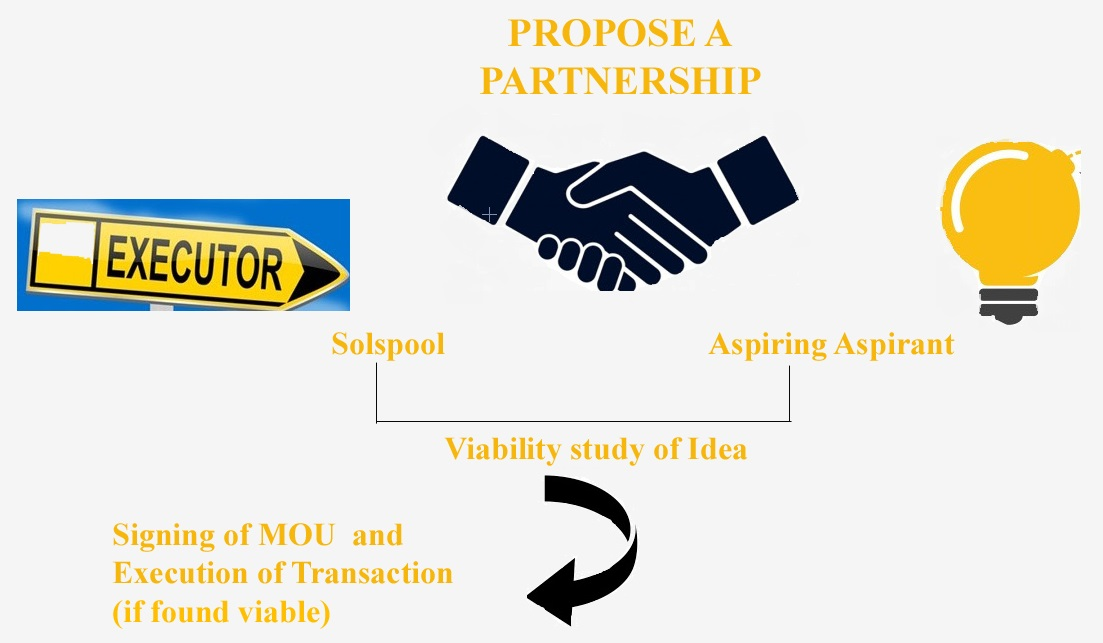
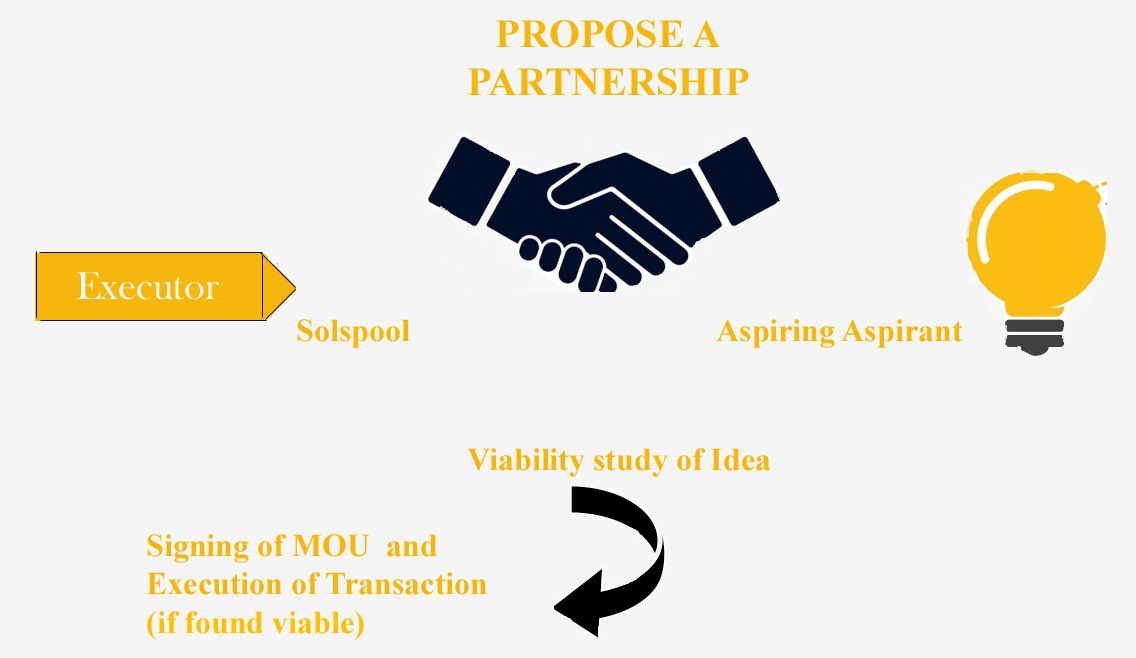
service page and workflow done

diff --git a/public/css/style.css b/public/css/style.css
@@ -561,7 +561,8 @@ a:focus, a:hover, .btn:focus, .btn:hover, button:focus, button:hover {
   text-align: center;
   position: relative;
   z-index: 1;
-  padding-bottom: 70px;
+  padding-bottom: 0px;
+  
 }
 .banner_area:after {
   content: "";
@@ -578,7 +579,7 @@ a:focus, a:hover, .btn:focus, .btn:hover, button:focus, button:hover {
   color: #fff;
   font: 400 40px "Oswald", sans-serif;
   text-transform: uppercase;
-  padding-top: 85px;
+  padding-top: 10px;
 }
 .banner_area .breadcrumb {
   background-color: transparent;

diff --git a/resources/views/services.blade.php b/resources/views/services.blade.php
@@ -10,50 +10,158 @@
         </ol>
         <style>
         ul li {
-             color: #3c3c3c;
-            color:black; 
+             color: ;
+            color:white; 
         }
 
-.grid-container {
+/*.grid-container {
   display: grid;
   grid-template-columns: auto auto;
-  background-color: #f5f5f5;
+  background-color: grey;
   padding: 10px;
+ /* display: flex;
+  flex-direction: row;
+  flex-wrap: wrap;
 
-    /*background-color: #f6b60b;*/
+    background-color: #f6b60b;
      
  
+}*/
+.grid-container{
+    width:1200px;
+   /* grid-template-columns: auto auto ;*/
+    min-height: 500px;
+    background: grey;
+    margin: 70px auto 0;
+
 }
-.grid-item {
+/*.grid-container .box{
+    position:relative;
+    width:300px;
+    height:300px;
+    backfgound:#ff0;
+    margin:10px;
+
+    box-sizing: border-box;
+    display: inline-block;
+
+
+
+}
+.grid-container .box .imgBox{
+    position: relative;
+}
+
+.grid-container .box .imgBox img{
+max-width: 100%;
+transition: tranform 2s;
+    position:relative;
+}
+.grid-container .box:hover .imgBox img{
+    transform: scale(1.2);
+}
+.grid-container:hover{
+    background-color: #222222;
+}
+.grid-container .box .details .content{
+    position:absolute;
+    top:50%;
+    transform: translateY(-50%);
+    text-align:center;
+    padding:15px;
+    color:#fff;
+}*/
+/*.grid-item {
   background-color: rgba(245, 245, 245, 0.8);
   grid-template-columns: auto auto ;
-  /*border: 1px solid rgba(0, 0, 0, 0.8);*/
+  border: 1px solid rgba(0, 0, 0, 0.8);
   padding: 40px;
   font-size: 30px;
   text-align: left;
      
-    /*background-color: #f6b60b;*/
+    background-color: #f6b60b;
   
 }
 .grid-container > div {
   background-color: rgba(255, 255, 255, 0.8);
-  /*border: 10px solid #f6b60b;*/
+  border: 10px solid white;
   text-align: left;
   font-size: 20px;
   padding:35px;
      
-   /* background-color: #f6b60b;*/
+    background-color: grey;
+}*/
+p.about-para-w3ls {
+    color: #777;
+    font-size: 16px;
+    line-height: 33px;
+    letter-spacing: 0.5px;
+    margin-bottom: 2em;
 }
-
+.advantages {
+    background: url(../images/back.jpg)no-repeat;
+    min-height: 350px;
+    background-size: cover;
+    background-position: center;
+    background-color: rgba(0, 0, 0, 0.8);
+    position: relative;
+    z-index: 1;
+    padding-bottom: 40px;
+    padding-top: 20px;
+}
+.advantage-block {
+    padding:2em 2em;
+    background: rgba(0, 0, 0, 0.52);
+    text-align: center;
+}
+.advantage-block:hover {
+    background: rgba(255, 255, 255, 0.22);
+    transition: 0.5s all;
+    -webkit-transition: 0.5s all;
+    -moz-transition: 0.5s all;
+    -o-transition: 0.5s all;
+}
+.advantage-block h4 {
+    font-size: 1.5em;
+    color: #000000;
+    margin: 0.5em 0em 0.5em 0em;
+    text-transform: capitalize;
+    letter-spacing: 1px;
+}
+.advantage-block p {
+    font-size: 16px;
+    color: #000000;
+    /* line-height: 1.8em; */
+    text-align: left;
+    padding-left: 3em;
+    line-height: 35px;
+    letter-spacing: .8px;
+}
+.advantage-grid {
+    padding: 0;
+}
+.left-w3ls {
+    border-right: 1px solid #b1b1b1;
+}
+.advantage-block .fa-credit-card,.advantage-block .fa-clock-o {
+    color: #ffce14;
+    font-size: 45px;
+    margin-bottom: 10px;
+}
+.advantage-block p i {
+    color: #ffce14;
+    font-size: 13px;
+    margin-right: 10px;
+}
 </style>
     </section>
     <!-- End Banner area -->
 
     <!-- Our Services Area -->
-    <section class="our_services_tow">
+   <!--<section class="our_services_tow">
         <div class="container">
             <div class="architecture_area services_pages">
-             <!--   <div class="portfolio_filter portfolio_filter_2">
+                <div class="portfolio_filter portfolio_filter_2">
                     <ul>
                         <li data-filter="*" class="active"><a href=""><i class="fa fa-wrench" aria-hidden="true"></i>ARCHITECTURE</a></li>
                         <li data-filter=".building"><a href=""><i class="fa fa-cogs" aria-hidden="true"></i>Building</a></li>
@@ -72,99 +180,93 @@
 
 
                             </div>-->
-                            <div class="grid-container">
-                                <div class="grid-item">
-                                    <h2>TRADING</h2><BR>
-                            <ul class ="a">
-                             <li>LED Lights and related accessories</li>
-                             <li>Solar Energy Solutions</li>
-                            <li>Plastic Granule</li>
-                            <li>Textile Industry Solutions (Fabrics, Yarns, Machineries)</li>
-                            <li>Agriculture related solutions</li>
-                            <li>Import/Export</li>
-                            <li>Leather Products</li>
-                            <li>Dairy Products</li>
-                            <li>Coal & Coke</li>
-                            <li>Flex & Vinyl</li>
-                            <li>FMCG Products</li>
-                            <li>Printing & Stationery</li>
-                            <li>Computers, Laptops and related products</li>
-                            </ul> </div>
-
-                    
-                        <!--    <a href="#" class="button_all">Contact Now</a> -->
-                        
-                  <!--  </div>
-               
-                   <div class="single_facilities col-sm-5 painting webdesign">
-                        <img src="images/feature-man-4.jpg" alt="">
+                           
+                    <!-- <div class="single_facilities col-sm-5 painting webdesign">
+                        <img src="images/feature-man-5.jpg" alt="">
                     </div> 
                 </div>
             </div>
         </div>
-        <div class="container">
-            <div class="architecture_area services_pages">
 
-                <div class="portfolio_filter portfolio_filter_2">
-                    <ul>
-                        <li data-filter="*" class="active"><a href=""><i class="fa fa-wrench" aria-hidden="true"></i>ARCHITECTURE</a></li>
-                        <li data-filter=".building"><a href=""><i class="fa fa-cogs" aria-hidden="true"></i>Building</a></li>
-                        <li data-filter=".webdesign"><a href=""><i class="fa fa-cog" aria-hidden="true"></i>CONSTRUCTION</a></li>
-                        <li data-filter=".adversting"><a href=""><i class="fa fa-heart" aria-hidden="true"></i>DESIGN</a></li>
-                        <li data-filter=".painting"><a href=""><i class="fa fa-paint-brush" aria-hidden="true"></i>Painting</a></li>
-                    </ul>
-                </div> -->
+    </section>-->
+    <div class="advantages">
+    <div class="container">
+        <div class="advantages-main">
+               <!-- <h3 class="title-w3-agileits">Our Services</h3>-->
+    <div class="advantage-bottom">
+             <div class="col-md-6 advantage-grid left-w3ls wow bounceInLeft" data-wow-delay="0.3s">
+                <div class="advantage-block ">
+                    <!-- <i class="fa fa-columns" aria-hidden="true"></i> -->
+                    <h4>TRADING</h4>
+                <!--    <p>Temporibus autem quibusdam et aut officiis debitis aut rerum necessitatibus saepe eveniet ut et voluptates.</p> -->
+                <p><i class="fa fa-check" aria-hidden="true"></i>LED Lights and related accessories&nbsp;&nbsp;&nbsp;&nbsp;&nbsp;&nbsp;
+                    &nbsp;&nbsp;&nbsp;&nbsp;&nbsp;&nbsp;&nbsp;&nbsp;&nbsp;&nbsp;&nbsp;&nbsp;&nbsp;&nbsp;&nbsp;
+                    &nbsp;&nbsp;&nbsp;&nbsp;&nbsp;&nbsp;&nbsp;&nbsp;&nbsp;&nbsp;                    
+                    <i class="fa fa-check" aria-hidden="true"></i>Banquet facilities</p>
 
-               <!-- <div class="portfolio_item portfolio_2">
-                 <div class="grid-sizer-2"></div>
-                 
-                    <div class="single_facilities col-sm-7 painting building painting adversting">
-
-                        <div class="who_we_area">
-
-                            <div class="subtittle">
-                            <h2>CONSULTANCY</h2>
-                           
-                            </div>-->
-                           <!--  <div class="grid-container">-->
-                            <div class="grid-item">
-                                <h2>CONSULTANCY</h2><BR>
-                            <ul class="a">
-                             <li>Legal Advisory</li>
-                             <li>Banking/Financial Advisory</li>
-                            <li>Digital Solutions</li>
-                            <li>Software/App/Website Development</li>
-                            <li>Project Management Consultancy</li>
-                            <li>Loan Syndication</li>
-                            <li>Project Finance</li>
-                            <li>Construction Contracts</li>
-                            <li>EPC Work</li>
-                            <li>Dairy Projects</li>
-                            <li>Import/Export Documentation</li>
-                            <li>Freight Forwarding Solutions (Domestic & International)</li>
-                            <li>Catering Services</li>
-                            <li>Manpower Supply Services</li>
-                            <li>BPO Solutions</li>
-                            <li>Documents Verifications</li>
-                            <li>Internal Audit</li>
-                            <li>Management Audit</li>
-                            <li>Leasing Solutions</li>
-                            <li>Real Estate Advisory/Solutions</li>
-                             <li> Sales/Marketing Solutions</li>
-                            </ul> </div>
-                        
-                               <!--   <a href="#" class="button_all">Contact Now</a> -->
-                        </div>
-                    </div>
+                <p><i class="fa fa-check" aria-hidden="true"></i>Solar Energy Solutions&nbsp;&nbsp;&nbsp;&nbsp;&nbsp;&nbsp;&nbsp;&nbsp;&nbsp;&nbsp;&nbsp;&nbsp;&nbsp;&nbsp;&nbsp;&nbsp;&nbsp;                   
+                    <p><i class="fa fa-check" aria-hidden="true"></i>Plastic Granule</p>
+                    <p><i class="fa fa-check" aria-hidden="true"></i>Textile Industry Solutions (Fabrics, Yarns, Machineries)</p>
+                    <p><i class="fa fa-check" aria-hidden="true"></i>Agriculture related solutions</p>
+                    <p><i class="fa fa-check" aria-hidden="true"></i>Import/Export</p>
+                    <p><i class="fa fa-check" aria-hidden="true"></i>Leather Products</p>
+                    <p><i class="fa fa-check" aria-hidden="true"></i>Dairy Products</p>
+                    <p><i class="fa fa-check" aria-hidden="true"></i>Coal & Coke</p>
+                    <p><i class="fa fa-check" aria-hidden="true"></i>Flex & Vinyl</p>
+                    <p><i class="fa fa-check" aria-hidden="true"></i>FMCG Products</p>
+                    <p><i class="fa fa-check" aria-hidden="true"></i>Printing & Stationery</p>
+                    <p><i class="fa fa-check" aria-hidden="true"></i>Computers, Laptops and related products</p>
                 </div>
-                    <!-- <div class="single_facilities col-sm-5 painting webdesign">
-                        <img src="images/feature-man-5.jpg" alt="">
-                    </div> -->
+             </div>
+             <div class="col-md-6 advantage-grid right-w3ls wow zoomIn" data-wow-delay="0.3s">
+                <div class="advantage-block">
+            <!--        <i class="fa fa-clock-o" aria-hidden="true"></i> -->
+                    <h4>CONSULTANCY</h4>
+             <!--       <p>Temporibus autem quibusdam et aut officiis debitis aut rerum necessitatibus saepe eveniet ut et voluptates.</p> -->
+             <p><i class="fa fa-check" aria-hidden="true"></i>Legal Advisory&nbsp;&nbsp;&nbsp;&nbsp;&nbsp;&nbsp;
+                    &nbsp;&nbsp;&nbsp;&nbsp;&nbsp;&nbsp;&nbsp;&nbsp;&nbsp;&nbsp;&nbsp;&nbsp;&nbsp;&nbsp;&nbsp;
+                    &nbsp;&nbsp;&nbsp;&nbsp;&nbsp;&nbsp;&nbsp;&nbsp;&nbsp;&nbsp;                    
+                    <p><i class="fa fa-check" aria-hidden="true"></i>Banking/Financial Advisory</p>
+
+                <p><i class="fa fa-check" aria-hidden="true"></i>Digital Solutions&nbsp;&nbsp;&nbsp;&nbsp;&nbsp;&nbsp;&nbsp;&nbsp;&nbsp;&nbsp;&nbsp;&nbsp;&nbsp;&nbsp;&nbsp;&nbsp;&nbsp;                   
+                    <p><i class="fa fa-check" aria-hidden="true"></i>Software/App/Website Deve.</p>
+                    <p><i class="fa fa-check" aria-hidden="true"></i>Documents Verifications</p>
+                    <p><i class="fa fa-check" aria-hidden="true"></i>Loan Syndication</p>
+                    <p><i class="fa fa-check" aria-hidden="true"></i>Construction Contracts</p>
+                    <p><i class="fa fa-check" aria-hidden="true"></i>EPC Work</p>
+                    <p><i class="fa fa-check" aria-hidden="true"></i>Dairy Projects</p>
+                    <p><i class="fa fa-check" aria-hidden="true"></i>Import/Export Documentation</p>
+                    <p><i class="fa fa-check" aria-hidden="true"></i>Freight Forwarding Solutions (Domestic & International)</p>
+                    <p><i class="fa fa-check" aria-hidden="true"></i>Catering Services</p>
+                    <p><i class="fa fa-check" aria-hidden="true"></i>Manpower Supply Services</p>
+                    <p><i class="fa fa-check" aria-hidden="true"></i>BPO Solutions&nbsp;&nbsp;&nbsp;&nbsp;<i class="fa fa-check" aria-hidden="true"></i>Project Management Consultancy </p>
+                     
                 </div>
+             </div>
+            
+                  <!--  <p><i class="fa fa-check" aria-hidden="true"></i>Legal Advisory
+                    &nbsp;&nbsp;&nbsp;&nbsp;&nbsp;&nbsp;<i class="fa fa-check" aria-hidden="true"></i>Banking/Financial Advisory &nbsp;&nbsp;&nbsp;&nbsp;&nbsp;&nbsp;<i class="fa fa-check" aria-hidden="true"></i>Digital Solutions&nbsp;&nbsp;&nbsp;&nbsp;&nbsp;&nbsp;<i class="fa fa-check" aria-hidden="true"></i>Software/App/Website Deve.&nbsp;&nbsp;&nbsp;&nbsp;&nbsp;&nbsp;<i class="fa fa-check" aria-hidden="true"></i>Documents Verifications&nbsp;&nbsp;&nbsp;&nbsp;&nbsp;&nbsp;<i class="fa fa-check" aria-hidden="true"></i>Loan Syndication&nbsp;&nbsp;&nbsp;&nbsp;&nbsp;&nbsp;<i class="fa fa-check" aria-hidden="true"></i>Project Finance&nbsp;&nbsp;&nbsp;&nbsp;&nbsp;&nbsp;<i class="fa fa-check" aria-hidden="true"></i>Construction Contracts&nbsp;&nbsp;&nbsp;&nbsp;&nbsp;&nbsp;<i class="fa fa-check" aria-hidden="true"></i>EPC Work&nbsp;&nbsp;&nbsp;&nbsp;&nbsp;&nbsp;<i class="fa fa-check" aria-hidden="true"></i>Dairy Projects&nbsp;&nbsp;&nbsp;&nbsp;&nbsp;&nbsp;<i class="fa fa-check" aria-hidden="true"></i>Import/Export Documentation&nbsp;&nbsp;&nbsp;&nbsp;&nbsp;&nbsp;<i class="fa fa-check" aria-hidden="true"></i>Freight Forwarding Solutions (Domestic & International)&nbsp;&nbsp;&nbsp;&nbsp;&nbsp;&nbsp;<i class="fa fa-check" aria-hidden="true"></i>Catering Services&nbsp;&nbsp;&nbsp;&nbsp;&nbsp;&nbsp;<i class="fa fa-check" aria-hidden="true"></i>Manpower Supply Services&nbsp;&nbsp;&nbsp;&nbsp;&nbsp;&nbsp;<i class="fa fa-check" aria-hidden="true"></i>BPO Solutions&nbsp;&nbsp;&nbsp;&nbsp;&nbsp;&nbsp;<i class="fa fa-check" aria-hidden="true"></i>Project Management Consultancy</p>
+                    
+                    
+                    Documents Verifications
+
+
+
+
+                </div>
+             </div>-->
+                    <!-- <div class="col-md-6 advantage-grid right-w3ls wow zoomIn" data-wow-delay="0.3s">
+                <div class="advantage-block">   
+                        <p><i class="fa fa-check" aria-hidden="true"></i>Internal Audit&nbsp;&nbsp;&nbsp;&nbsp;&nbsp;&nbsp;&nbsp;&nbsp;&nbsp;&nbsp;&nbsp;&nbsp;&nbsp;&nbsp;&nbsp;&nbsp;<i class="fa fa-check" aria-hidden="true"></i>Management Audit</p>
+                    <p><i class="fa fa-check" aria-hidden="true"></i>Leasing Solutions&nbsp;&nbsp;&nbsp;&nbsp;&nbsp;&nbsp;&nbsp;&nbsp;&nbsp;&nbsp;&nbsp;&nbsp;&nbsp;&nbsp;&nbsp;&nbsp;<i class="fa fa-check" aria-hidden="true"></i>Real Estate Advisory/Solutions</p>
+                    <p><i class="fa fa-check" aria-hidden="true"></i>Sales/Marketing Solutions&nbsp;&nbsp;&nbsp;&nbsp;&nbsp;&nbsp;&nbsp;&nbsp;&nbsp;&nbsp;&nbsp;&nbsp;&nbsp;&nbsp;&nbsp;&nbsp;</p>
+                      </div>
+             </div>-->
+            <div class="clearfix"> </div>
             </div>
-        </div>
-
-    </section>
+                </div>
+    </div>
+</div>
     <!-- End Our Services Area -->
 
     <!-- Our Featured Works Area -->
